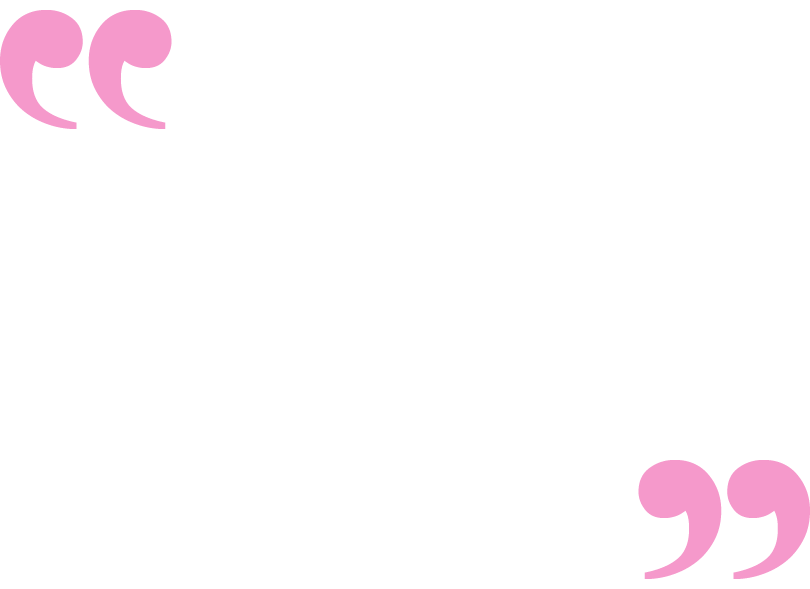
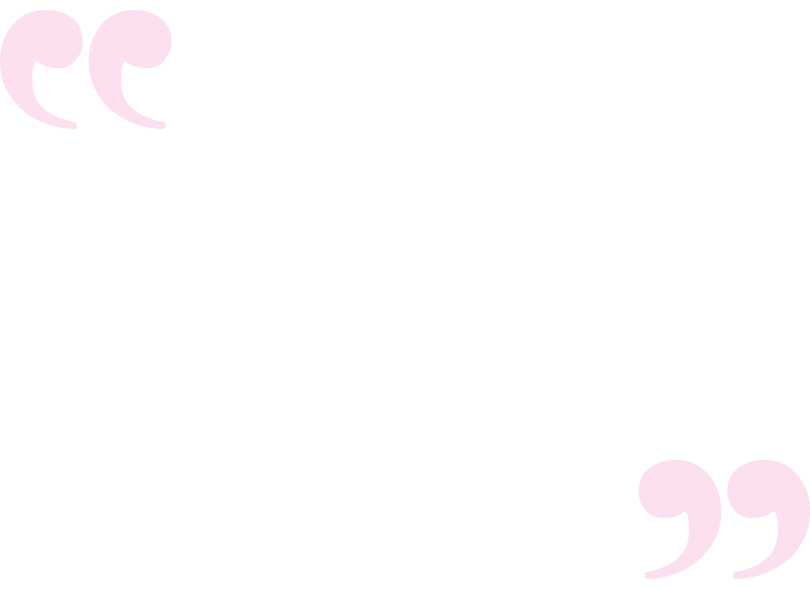
Add media queries

Changed region(s): [[0.7716, 0.764, 1.0, 1.0], [0.0, 0.0, 0.216, 0.2445]]

diff --git a/style.css b/style.css
@@ -108,6 +108,10 @@ body {
     height: 40rem;
 }
 
+.catalogs .overlay{
+    width: 36rem;
+}
+
 #weldex {
     height: 18rem;
     width: 14rem;
@@ -134,12 +138,20 @@ body {
     margin: 0.4rem;
 }
 
+.flyers .overlay {
+    width: 49rem;
+}
+
 
 .logotypes {
     width: 12rem;
     height: 40rem;
     background-color: rgb(218, 146, 146);
     border-radius: 1rem;
+}
+
+.logotypes .overlay {
+    width: 12rem;
 }
 
 .logotype-content {
@@ -317,11 +329,13 @@ body {
 }
 
 .main-info-references div {
-    margin: 0.6rem;
+    margin: 1rem;
     width: 23rem;    
     background-image: url('./Assets/citat.png');
     background-repeat: no-repeat;
-    background-size: cover;
+    background-size: contain;
+    
+    
 }
 
 
@@ -456,9 +470,151 @@ p {font-family: Verdana, Geneva, Tahoma, sans-serif; }
         
         align-items: center;
     }
+
+  
+
+    
    
 }
 
-@media all and (max-width: 480px) {
+@media all and (max-width: 840px) {
+
+    .flyers {
+        width: 36rem;
+    }
+
+    .flyer-content img {
+        width: 11rem;
+        height: auto;
+      }
+
+    .flyer-content {
+        width: 36rem;
+    }  
+    
+      .flyers .overlay {
+        width: 36rem;
+    }
+    
+}
+
+@media all and (max-width: 600px) {
+
+    .flyers {
+        width: 24rem;
+        height: 30rem;
+    }
+
+    .flyer-content img {
+        width: 10rem;
+        height: auto;
+      }
+
+    .flyer-content {
+        width: 24rem;
+    }  
+    
+      .flyers .overlay {
+        width: 24rem;
+    }
+
+    .catalogs {
+        width: 24rem;
+        height: 40rem;
+    }
+
+    .weldex-table {
+        display: none;
+    }
+
+    .lpt-table {
+        display: none;
+    }
+
+    /*.catalog-content img {
+        width: 10rem;
+        height: auto;
+      }*/
+
+    .catalog-content {
+        width: 24rem;
+    }  
+    
+      .catalogs .overlay {
+        width: 24rem;
+    }
+    
+}
+
+@media all and (max-width: 400px) {
+
+    .flyers {
+        width: 18rem;
+        height: 45rem;
+    }
+
+    .flyer-content img {
+        width: 10rem;
+        height: auto;
+      }
+
+    .flyer-content {
+        width: 18rem;
+    }  
+    
+      .flyers .overlay {
+        width: 18rem;
+    }
+
+    .catalogs {
+        width: 18rem;
+        height: 40rem;
+    }
+
+    .weldex-table {
+        display: none;
+    }
+
+    .lpt-table {
+        display: none;
+    }
+
+    /*.catalog-content img {
+        width: 10rem;
+        height: auto;
+      }*/
+
+    .catalog-content {
+        width: 18rem;
+    }  
+    
+      .catalogs .overlay {
+        width: 18rem;
+    }
+
+
+    .employments {
+        width: 18rem;
+    }
+
+    .employment-info {
+        width: 18rem;
+    }  
+    
+      .employments .overlay {
+        width: 18rem;
+    }
+
+    .internships {
+        width: 18rem;
+    }
+
+    .internship-info {
+        width: 18rem;
+    }  
+    
+      .internships .overlay {
+        width: 18rem;
+    }
     
 }

diff --git a/index.html b/index.html
@@ -50,7 +50,7 @@
                     <div class="main-info-portfolio flex column">
                 
 
-                    <div class="portfolio-images flex wrap">
+                    <div class="portfolio-images flex wrap justify-center">
 
                         
                         <div class="container flex">
@@ -59,9 +59,9 @@
                             <div class="overlay">
                                 <div class="catalog-content flex wrap justify-center align-center">
                                     <img id="weldex" class="flex" src="./Assets/Portfolio/Catalogs/weldex_katalog.jpg">
-                                    <img class="flex" src="./Assets/Portfolio/Catalogs/weldex-open-catalog.jpg">
+                                    <img class="weldex-table flex" src="./Assets/Portfolio/Catalogs/weldex-open-catalog.jpg">
                                     <img id="lpt" class="flex" src="./Assets/Portfolio/Catalogs/lpt-katalog.jpg">
-                                    <img class="flex" src="./Assets/Portfolio/Catalogs/lpt-catalog.jpg">
+                                    <img class="lpt-table flex" src="./Assets/Portfolio/Catalogs/lpt-catalog.jpg">
 
                                 </div>
                             </div>
@@ -86,7 +86,7 @@
                             </div>
                         </div>
 
-                        <div class="container flex">
+                        <div class="container flex flyer-container">
                             <div class="flyers flex justify-center align-center">
                                 <p>Flyers</p>    
                     
@@ -247,10 +247,10 @@
                     
                 
                     <p class="red">Formula 1</p>
-                    <p class="red">Pizza</p>
-                    <p class="red">Animals</p>
+                    <p class="red">Pasta</p>
+                    <p class="red">Camels</p>
                     <p class="red">Puzzle</p>
-                    <p class="red">Music</p>
+                    <p class="red">Rock 'n' Roll</p>
                     
                     
                 </div>
